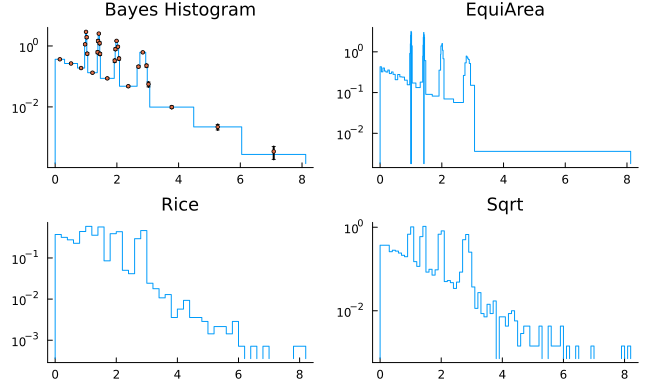
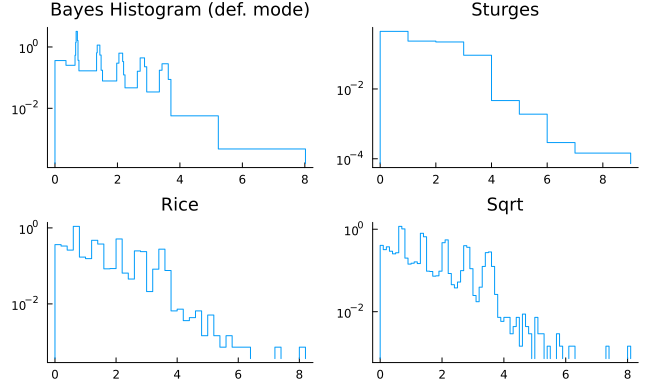
add BHist & enhance usability
enhance usability

- add BHist
- add to_pdf, Significance
- revamp plots
- update readme
- remove useless deps

diff --git a/README.md b/README.md
@@ -1,7 +1,34 @@
 # BayesHistogram.jl
-optimal histogram binning based on piecewise constant model
+Optimal histogram binning based on piecewise constant model.
 
-![plot.png](plot.png "")
+Paper: _Studies in Astronomical Time Series Analysis. VI. Bayesian Block Representations_ [https://arxiv.org/abs/1207.5578]
+
+for more worked examples read `make_plot.jl`.
+for a showcase look below.
+
+## Installation
+```julia
+using Pkg
+Pkg.add("BayesHistogram")
+```
+
+## Simple usage
+```julia
+using Plots, BayesHistogram
+X = exp.(randn(5000)./3)
+bl = bayesian_blocks(X)
+# plot using "to_pdf"
+support, density = to_pdf(bl)
+plot(support, density)
+# or using "edges" parameter and an histogramming procedure
+histogram(X, bins=bl.edges, normalize = :pdf)
+```
+
+## Showcase
+### it handles weighted data and errors correctly
 ![plot2.png](plot2.png "")
+### bins are determined automatically & optimally 
+![plot3.png](plot3.png "")
+### it routinely outperforms common binning rules
+![plot.png](plot.png "")
 
-for worked examples read `make_plot.jl`.
